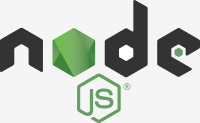
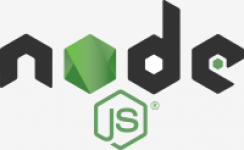
Redimmensionnement des images Ajout d'une barre de niveau dans l'affichage des tuiles de cours des users

diff --git a/src/html/templates/profile.html b/src/html/templates/profile.html
@@ -90,11 +90,21 @@
                     <div ng-controller="CourseController as courseCtrl">
                         <div ng-repeat="course in courseCtrl.courses">
                             <div class="col-md-offset-1 col-md-3" id="courses">
-                                <a href={{course.link}}><img ng-src={{course.image}}></a>
+                                <div class="col-md-12">
+                                    <a href={{course.link}}><img ng-src={{course.image}}></a>
                                     <p>
-                                        <h2>{{course.name}}</h2>Your level : {{course.level}} %<br/>
-                                {{course.description}}<br/>Remaining courses : {{course.coursesToDo}}
+                                    <h2>{{course.name}}</h2>
                                     </p>
+                                    <div style="float:right;" class="progress">
+
+                                        <div class="progress-bar progress-bar-warning progress-bar-striped" role="progressbar"
+                                             aria-valuenow="{{course.level}}" aria-valuemin="0" aria-valuemax="100"
+                                             style="min-width: 2em; width: {{course.level}}%;">
+                                            <span class="percent">Your level : {{course.level}} %</span>
+                                        </div>
+                                    </div>
+
+                                </div>
                             </div>
                         </div>
                     </div>

diff --git a/src/js/inscription.js b/src/js/inscription.js
@@ -109,7 +109,7 @@
         // TODO : delete useless images
         {
             name: "AngularJS",
-            level: "10",
+            level: 10,
             description: "Front-End Javascript",
             coursesToDo: 5,
             image: '../../images/angularjs2.png',
@@ -117,7 +117,7 @@
         },
         {
             name: "NodeJS",
-            level: "38",
+            level: 38,
             description: "Back-End Javascript",
             coursesToDo: 8,
             image: "../../images/nodejs2.png",
@@ -125,7 +125,7 @@
         },
         {
             name: "Python",
-            level: "0",
+            level: 0,
             description: "Already learned in prepa !",
             coursesToDo: 2,
             image: "../../images/python2.png",
@@ -133,7 +133,7 @@
         },
         {
             name: "HTML 5",
-            level: "56",
+            level: 56,
             description: "Website Skeleton",
             coursesToDo: 0,
             image: "../../images/html5_2.png",
@@ -141,7 +141,7 @@
         },
         {
             name: "Android",
-            level: "32",
+            level: 32,
             description: "Smartphone Applications",
             coursesToDo: 5,
             image: "../../images/android-studio2.png",
@@ -149,7 +149,7 @@
         },
         {
             name: "Git",
-            level: "67",
+            level: 67,
             description: "Versioning",
             coursesToDo: 1,
             image: "../../images/git2.png",

diff --git a/src/css/main.css b/src/css/main.css
@@ -361,6 +361,15 @@ nav.navbar.navbar-default.container > div > ul.nav.navbar-nav > li > a.activeDTY
     width:216px;
 }
 
+.percent{
+    /*position: absolute;
+    color: black;*/
+    color: #000000;
+    position: absolute;
+
+    left: 35%;
+}
+
 .graph-assiduousness{
     text-align:center;
 }
